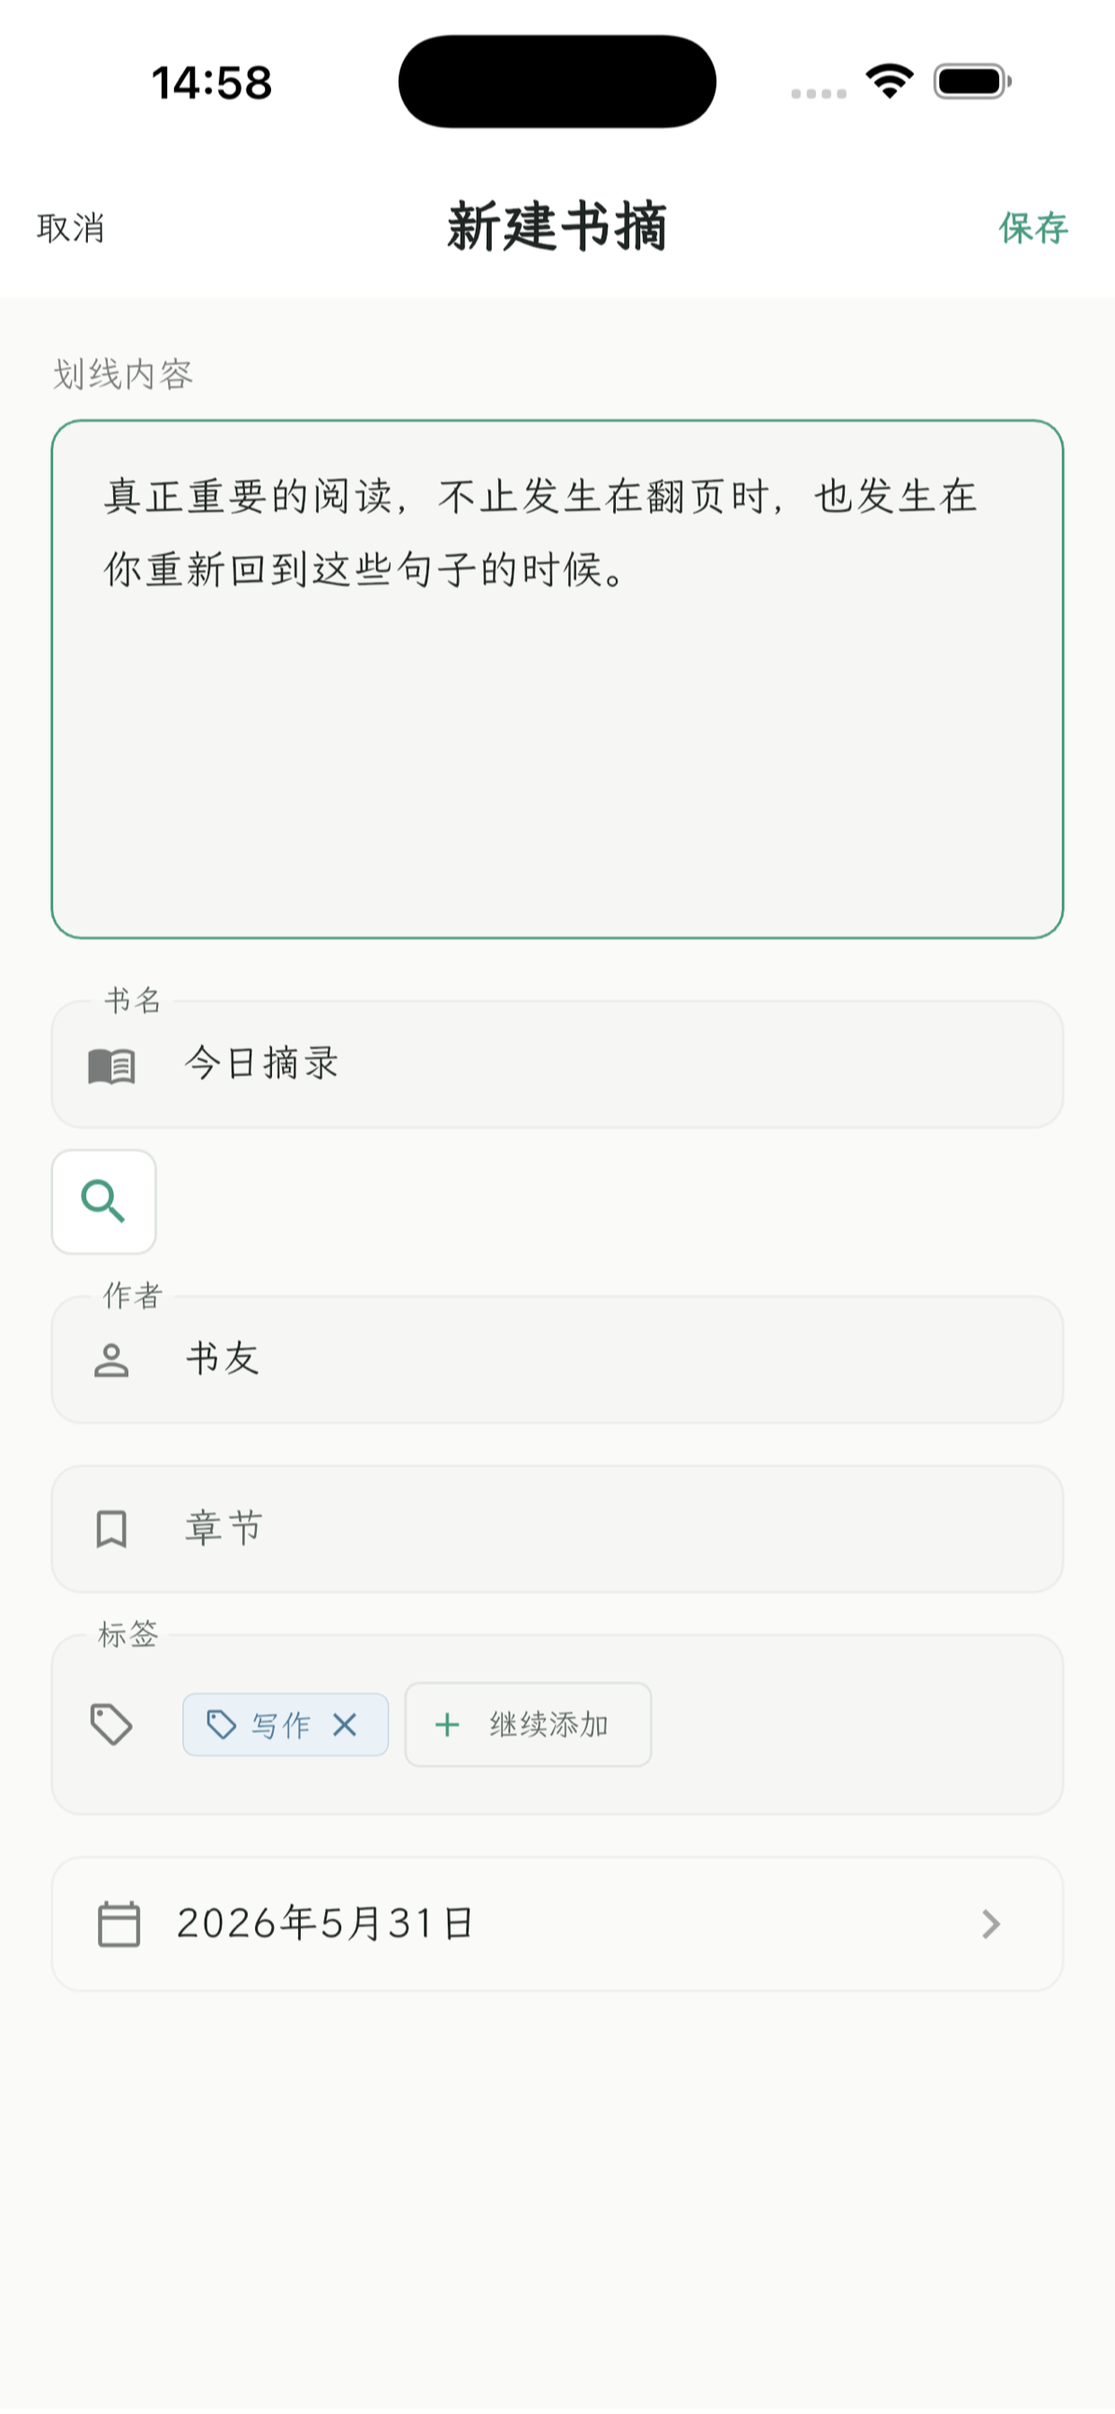
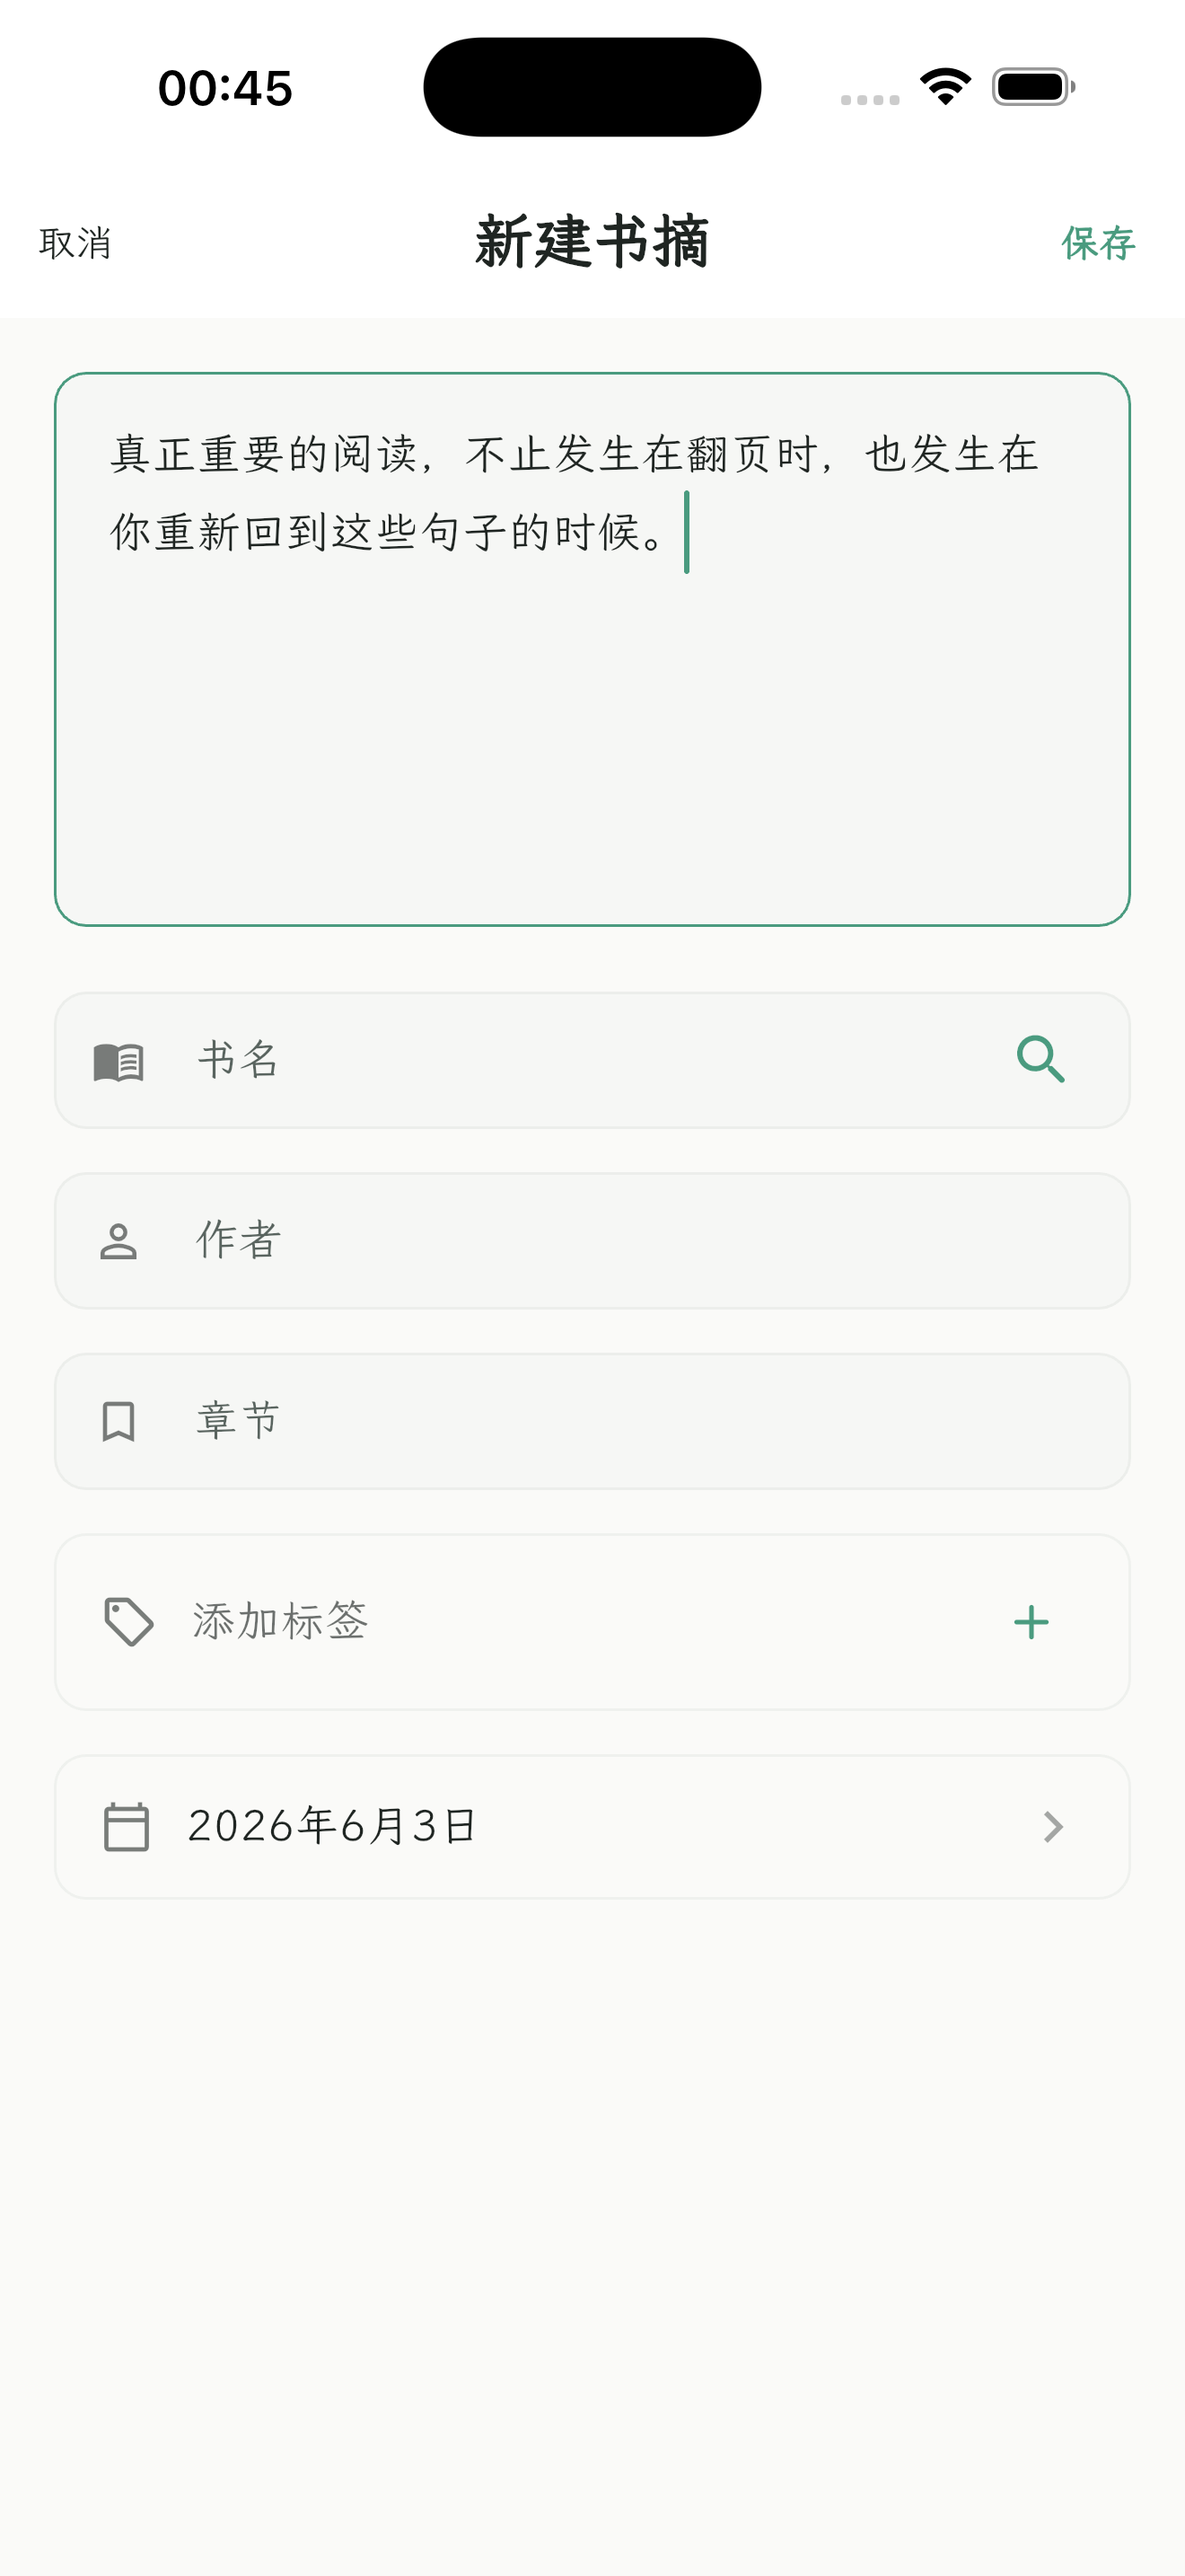
Update Moka App Store screenshots

diff --git a/index.html b/index.html
@@ -122,7 +122,7 @@
         <div class="release-list">
           <div class="release-row">
             <span class="platform">Android</span>
-            <span class="state">0.4.0+56</span>
+            <span class="state">0.4.1+57</span>
           </div>
           <div class="release-row">
             <span class="platform">iPhone</span>
